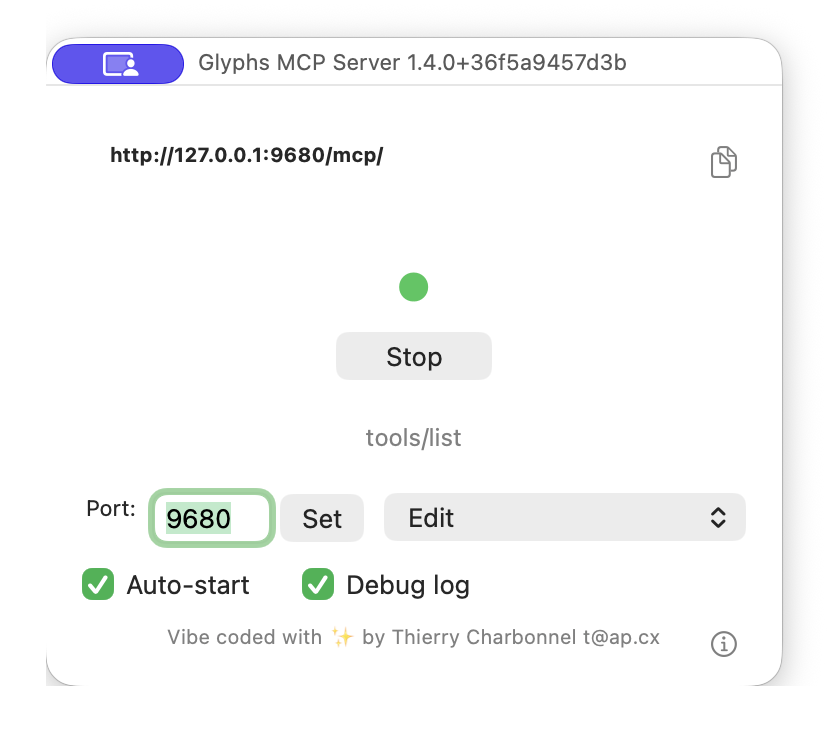
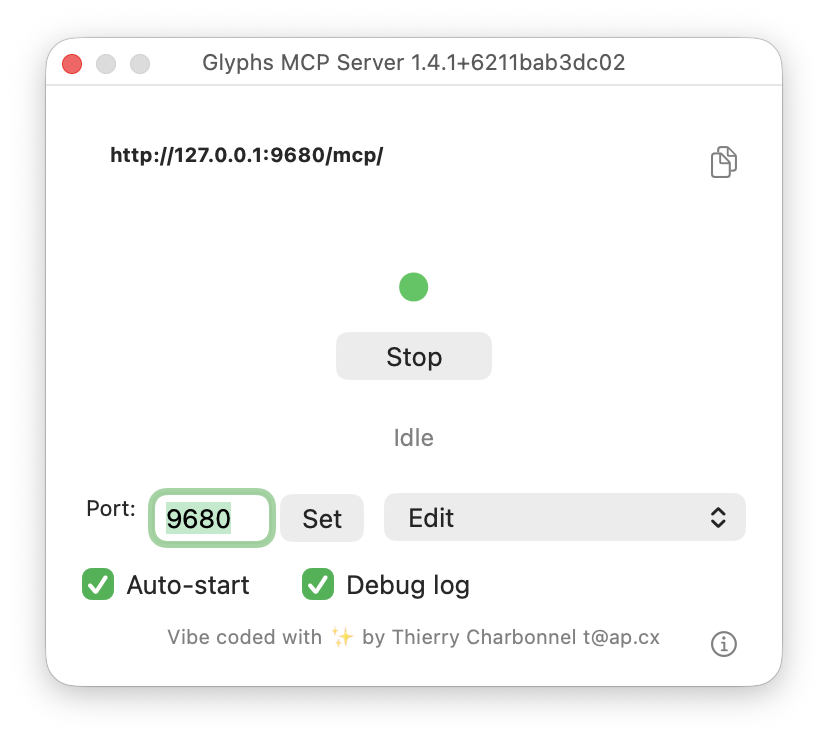
Improve install guidance and MCP preview

Changed region(s): [[0.0604, 0.9014, 0.936, 0.9635], [0.0302, 0.0622, 0.7548, 0.9014], [0.4529, 0.5595, 0.5435, 0.6216]]

diff --git a/site/index.html b/site/index.html
@@ -12,7 +12,7 @@
   <meta property="og:url" content="https://thierryc.github.io/GlyphsIconGrid/">
   <title>GlyphsIconGrid — construction grids for Glyphs</title>
   <link rel="icon" href="favicon.svg" type="image/svg+xml">
-  <link rel="stylesheet" href="styles.css?v=0.1.1-3">
+  <link rel="stylesheet" href="styles.css?v=0.1.1-4">
   <script src="site.js" defer></script>
 </head>
 <body>
@@ -40,8 +40,8 @@
         <h1>A construction grid that follows the weight of your icons.</h1>
         <p class="lede">Draw with a wide field of square cells, two useful inner circles, spokes, and metric-fitted keylines. Set one construction unit per master and keep the rest simple.</p>
         <div class="actions">
-          <a class="button primary" href="https://github.com/thierryc/GlyphsIconGrid/releases/latest">Download latest release</a>
-          <a class="button secondary" href="#install">Set it up</a>
+          <a class="button primary" href="#install">Install GlyphsIconGrid</a>
+          <a class="button secondary" href="https://github.com/thierryc/GlyphsIconGrid/releases/latest">Download release</a>
         </div>
         <dl class="hero-meta" aria-label="Plugin details">
           <div><dt>License</dt><dd>Apache-2.0</dd></div>
@@ -56,10 +56,26 @@
 
     <section class="section" id="install">
       <div class="section-heading">
-        <p class="eyebrow">Manual setup</p>
-        <h2>For people using Glyphs</h2>
-        <p>Download the release, unzip it, and double-click <code>IconGrid.glyphsReporter</code>. Restart Glyphs, open a glyph in Edit view, then choose <strong>View → Show Icon Grid</strong>. To update, install the newer bundle and restart; to uninstall, remove Icon Grid from Glyphs’ plug-in folder and restart.</p>
+        <p class="eyebrow">Install · official listing in progress</p>
+        <h2>Plugin Manager is the simplest option.</h2>
+        <p>The GlyphsIconGrid listing is being reviewed in the official Glyphs package repository. Once the pull request is merged, Plugin Manager will be the recommended way to install and update the plug-in.</p>
+        <div class="section-links">
+          <a class="button secondary" href="https://github.com/schriftgestalt/glyphs-packages/pull/206">Follow Plugin Manager PR #206</a>
+        </div>
       </div>
+      <div class="option-grid install-options" aria-label="GlyphsIconGrid installation options">
+        <article class="install-option recommended">
+          <p class="install-label">Recommended · PR in progress</p>
+          <h3>Install with Plugin Manager</h3>
+          <p>After the listing is published, open <strong>Window → Plugin Manager</strong>, search for <strong>GlyphsIconGrid</strong>, and click <strong>Install</strong>. Plugin Manager will also handle future updates.</p>
+        </article>
+        <article class="install-option">
+          <p class="install-label">Alternative</p>
+          <h3>Install the release manually</h3>
+          <p>If Plugin Manager is not available yet or you cannot use it, <a href="https://github.com/thierryc/GlyphsIconGrid/releases/latest">download the latest release</a>, unzip it, and double-click <code>IconGrid.glyphsReporter</code>.</p>
+        </article>
+      </div>
+      <p class="install-finish">After either installation method, restart Glyphs, open a glyph in Edit view, and choose <strong>View → Show Icon Grid</strong>.</p>
       <div class="shot-grid two">
         <figure class="shot-card">
           <img src="../docs/images/show-icon-grid-menu.png" width="1200" height="800" alt="Glyphs View menu with Show Icon Grid enabled.">

diff --git a/site/styles.css b/site/styles.css
@@ -475,6 +475,38 @@ main {
   line-height: 1.55;
 }
 
+.install-options {
+  grid-template-columns: repeat(2, minmax(0, 1fr));
+  margin-bottom: clamp(18px, 2.5vw, 28px);
+}
+
+.install-option.recommended {
+  border-color: color-mix(in oklab, var(--accent) 48%, var(--border));
+  background: color-mix(in oklab, var(--accent) 7%, var(--surface-2));
+}
+
+.option-grid .install-label {
+  color: var(--text);
+  font-size: 0.74rem;
+  font-weight: 720;
+  letter-spacing: 0.04em;
+  line-height: 1.25;
+  opacity: 0.58;
+  text-transform: uppercase;
+}
+
+.install-options a {
+  text-underline-offset: 0.18em;
+}
+
+.install-finish {
+  max-width: 72ch;
+  margin: 0 0 clamp(24px, 3.5vw, 42px);
+  color: color-mix(in oklab, var(--text) 92%, var(--muted));
+  font-size: 1.02rem;
+  line-height: 1.65;
+}
+
 .centered-link {
   margin: 24px 0 0;
   font-weight: 650;

diff --git a/tests/test_docs.py b/tests/test_docs.py
@@ -117,6 +117,17 @@ class DocumentationTests(unittest.TestCase):
         self.assertIn('id="install"', source)
         self.assertIn('id="configure"', source)
         self.assertIn('id="mcp"', source)
+        self.assertIn("Plugin Manager is the simplest option.", source)
+        self.assertIn("Recommended · PR in progress", source)
+        self.assertIn("Follow Plugin Manager PR #206", source)
+        self.assertIn(
+            'href="https://github.com/schriftgestalt/glyphs-packages/pull/206"',
+            source,
+        )
+        self.assertIn(
+            "If Plugin Manager is not available yet or you cannot use it",
+            source,
+        )
         self.assertIn("Regular · 84", source)
         self.assertIn("Bold · 135", source)
         self.assertIn("875 units at the default cap height", source)
